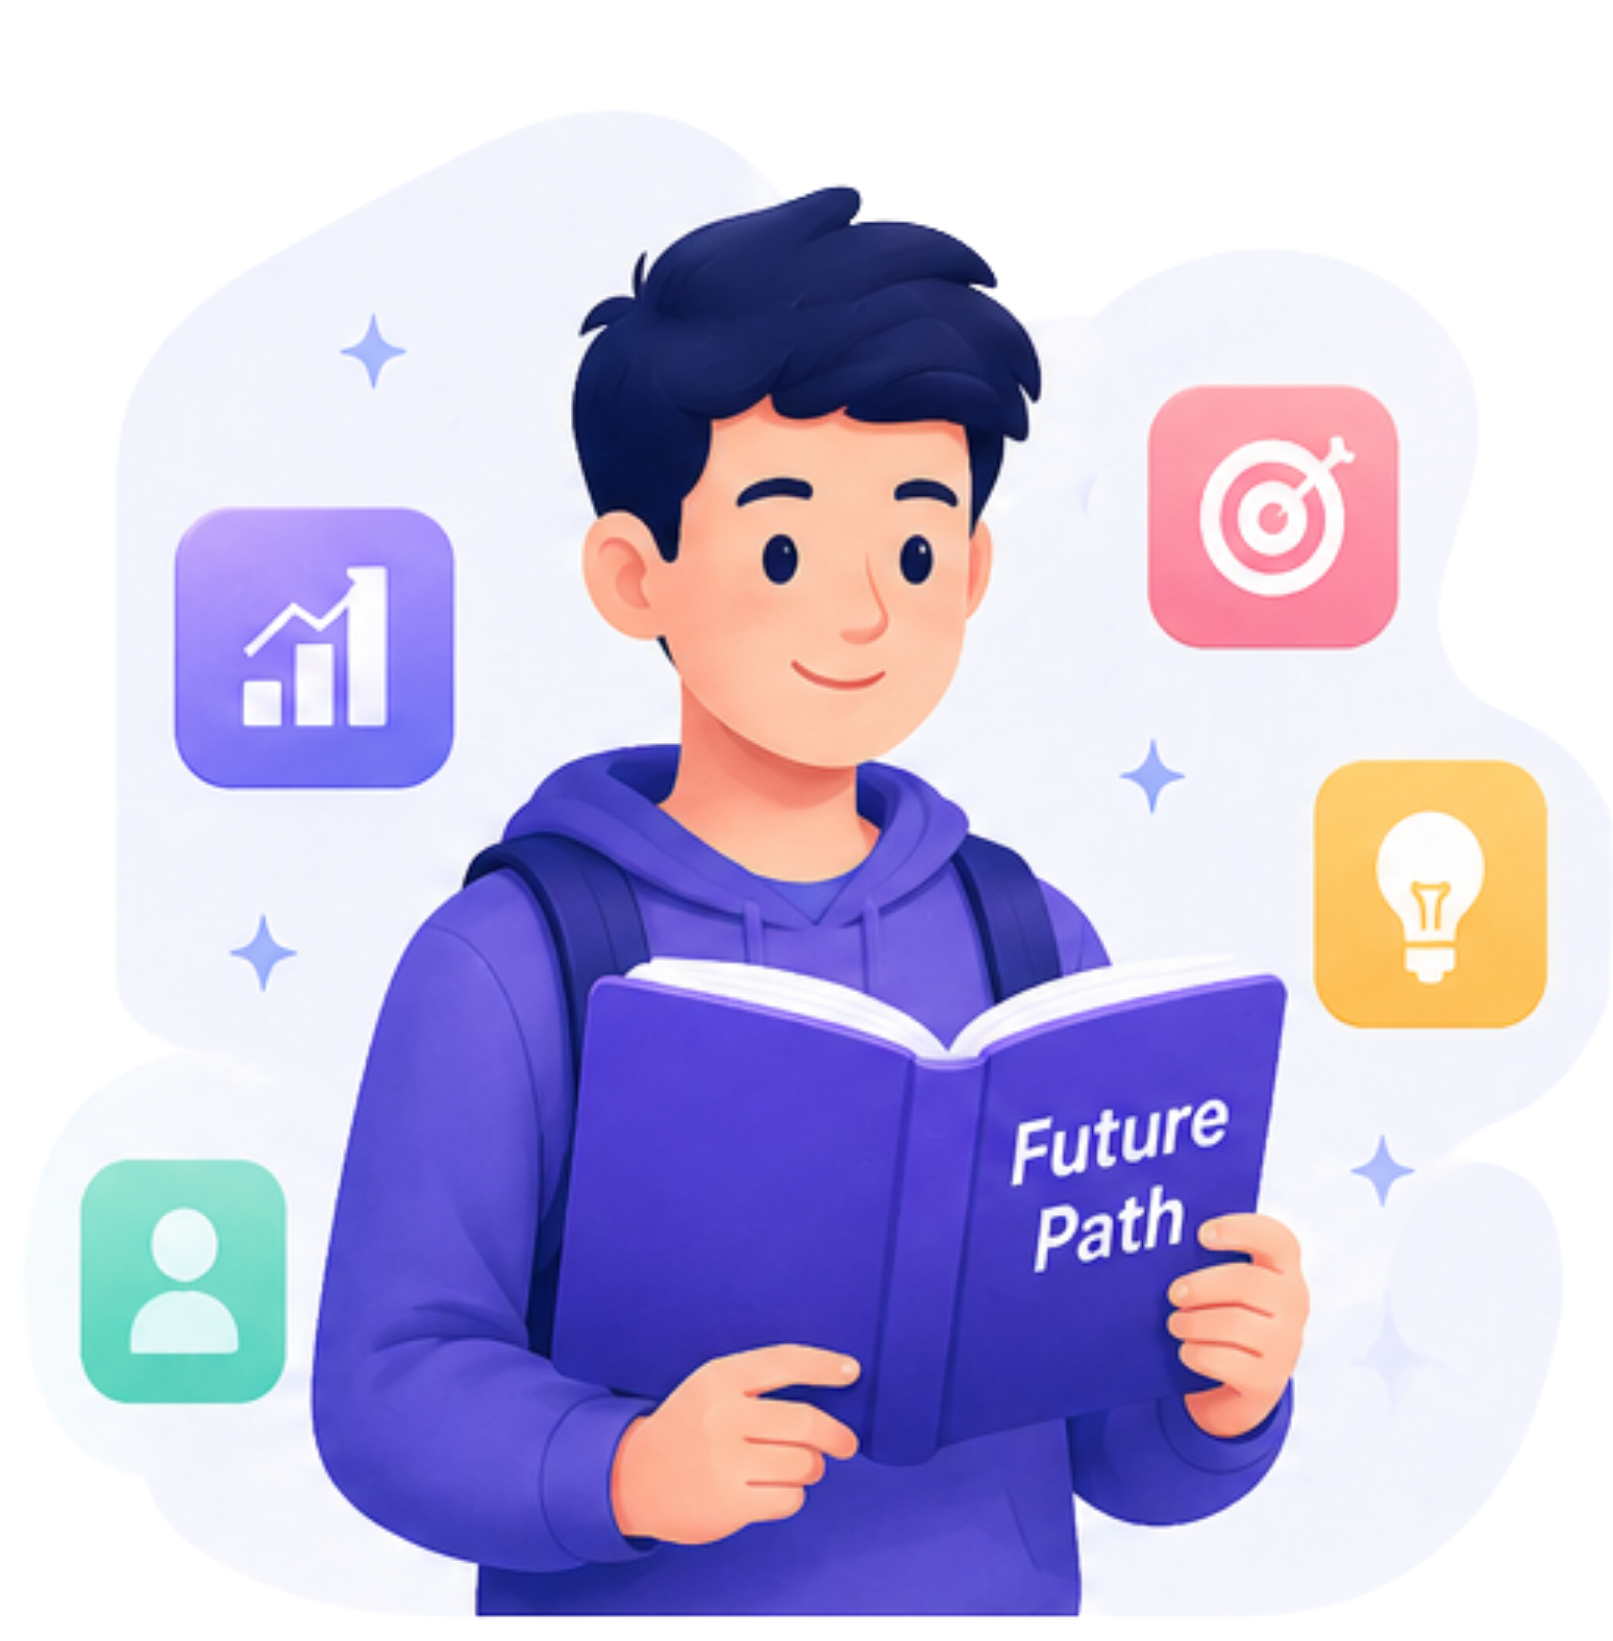
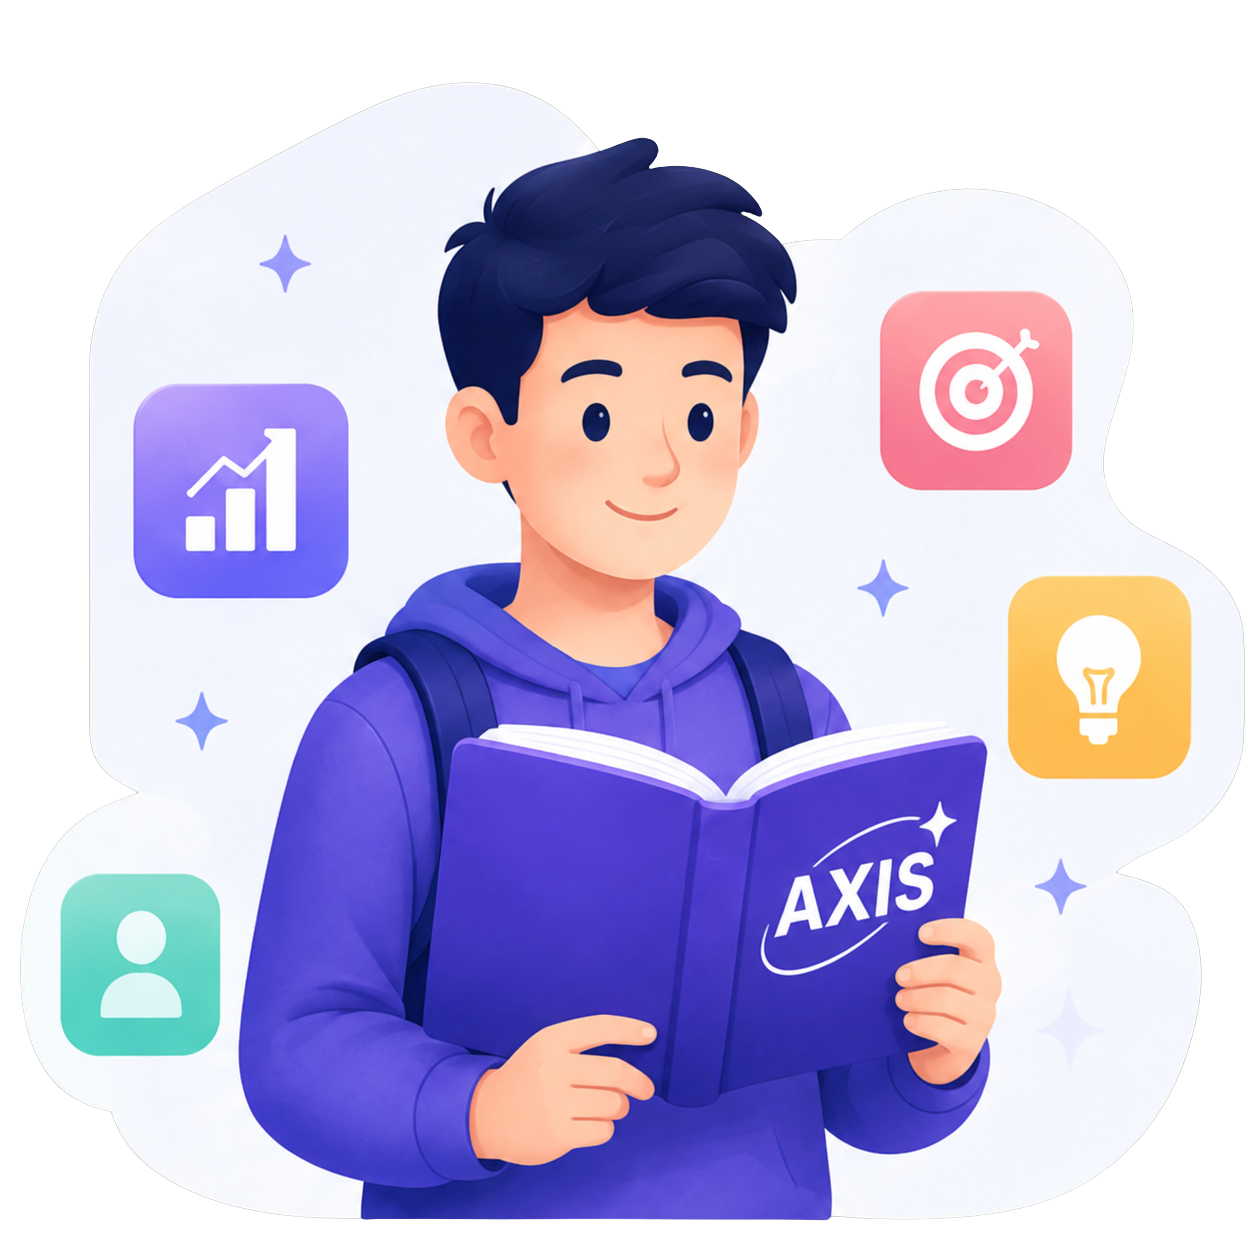
fix(ui): prevent guide images from being cropped
Preserve the full guide illustrations across desktop and mobile layouts by removing the fixed crop behavior and using contain sizing.\n\nCo-authored-by: Copilot <223556219+Copilot@users.noreply.github.com>

diff --git a/pages/guide.html b/pages/guide.html
@@ -20,8 +20,8 @@
       .guide-step:nth-child(2) .guide-tag { background: #E8F5EF; color: #35745B; }
       .guide-step:nth-child(3) .guide-tag { background: #FFF1DC; color: #9B6528; }
       .guide-step:nth-child(4) .guide-tag { background: #F3EAFB; color: #73508F; }
-      /* Preserve the full illustration instead of cropping it into a fixed-ratio box. */
-      .guide-image { width: 100%; height: auto; aspect-ratio: auto; object-fit: contain; border-radius: 10px; margin: 12px 0 4px; display: block; }
+      /* Giữ nguyên hình ảnh toàn bộ, không cắt theo khung 16:9. */
+      .guide-image { display: block; width: 100%; height: auto; max-height: 280px; object-fit: contain; object-position: center; border-radius: 12px; margin: 12px 0 4px; background: rgba(11, 61, 102, 0.04); }
       .guide-credit { display: block; color: var(--text-soft); font-size: .72rem; margin-top: 8px; }
       @media (max-width: 700px) { .guide-grid { grid-template-columns: 1fr; } }
     </style>

diff --git a/css/global.css b/css/global.css
@@ -4704,8 +4704,15 @@ body.mobile-nav-open { overflow: hidden; }
 }
 
 .guide-image {
-  aspect-ratio: 16 / 9;
-  object-fit: cover;
+  display: block;
+  width: 100%;
+  height: auto;
+  max-height: 280px;
+  object-fit: contain;
+  object-position: center;
+  border-radius: 12px;
+  margin: 12px 0 4px;
+  background: rgba(11, 61, 102, 0.04);
   filter: saturate(.9);
 }
 
